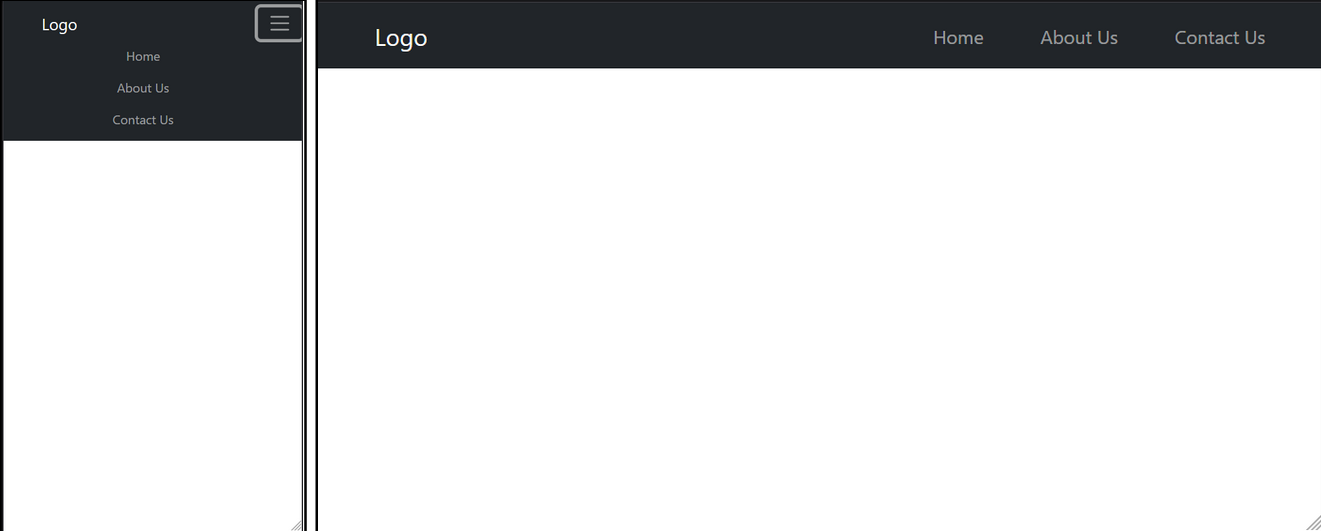
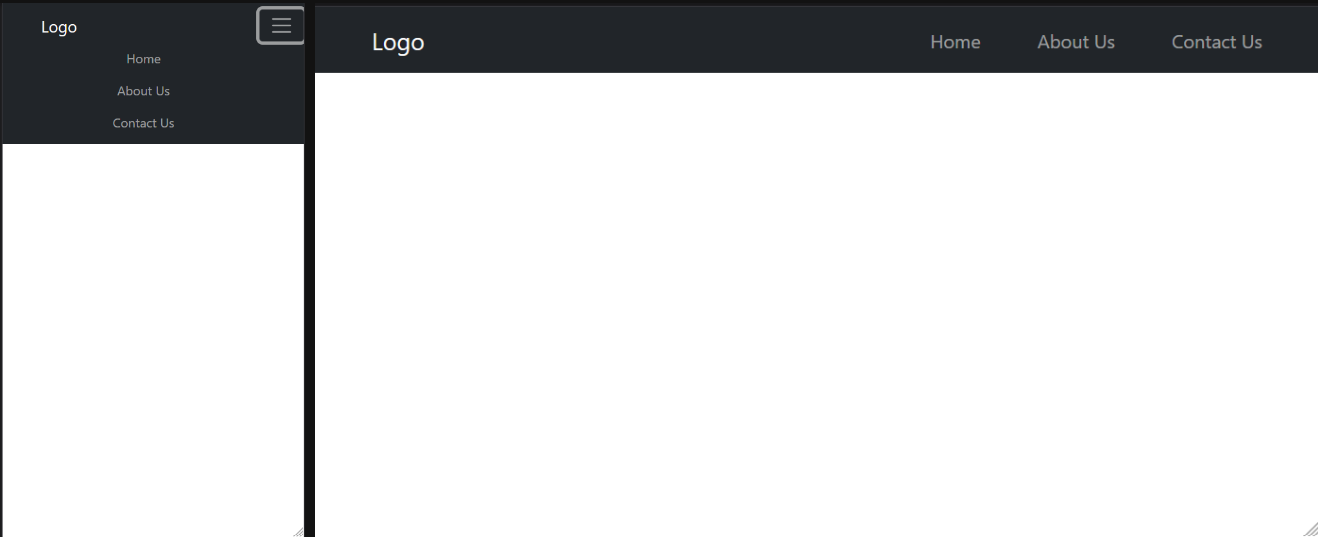
Images added for README

diff --git a/testing/testing.html b/testing/testing.html
@@ -1,0 +1,25 @@
+<!DOCTYPE html>
+<html lang="en">
+<head>
+    <meta charset="UTF-8">
+    <meta name="viewport" content="width=device-width, initial-scale=1.0">
+    <link href="https://cdn.jsdelivr.net/npm/bootstrap@5.0.2/dist/css/bootstrap.min.css" rel="stylesheet" integrity="sha384-EVSTQN3/azprG1Anm3QDgpJLIm9Nao0Yz1ztcQTwFspd3yD65VohhpuuCOmLASjC" crossorigin="anonymous">
+    <link rel="stylesheet" type="text/css" href="style.css">
+    <title>
+        Document
+    </title>
+</head>
+<body>
+    <section id="contact" class="contact-section">
+        <div class="row contact-row">
+            <div class="col-5 contact-col">
+                
+            </div>
+        </div>
+    </section>
+
+    <script src="script.js"></script>
+    <script src="https://cdn.jsdelivr.net/npm/bootstrap@5.0.2/dist/js/bootstrap.bundle.min.js" integrity="sha384-MrcW6ZMFYlzcLA8Nl+NtUVF0sA7MsXsP1UyJoMp4YLEuNSfAP+JcXn/tWtIaxVXM" crossorigin="anonymous"></script>
+
+</body>
+</html>

diff --git a/templates/create.html b/templates/create.html
@@ -23,7 +23,7 @@
                 Start designing your website
             </h1>
             <p class="py-2 create-desc">
-                Choose a category and choose an item below it. Press it and then press add. This will add it to your site. Repeat this until you have everything you want. When you are done, press the finish button. <br> Start with a navbar.
+                Choose a category and choose an item below it. Press it and then press add. This will add it to your site. Repeat this until you have everything you want. When you are done, press the finish button. <br> The different options are displayed in two ways. Mobile on the left, desktop on the right. <br> Start with a navbar.
             </p>
         </div>
     </div>

diff --git a/created-site/index.html b/created-site/index.html
@@ -16,7 +16,7 @@
             <span class="navbar-toggler-icon"></span>
         </button>
         <div class="collapse navbar-collapse" id="navbarNav">
-            <ul class="navbar-nav ms-auto mx-4"> <!-- Changed ml-auto here -->
+            <ul class="navbar-nav ms-auto mx-4">
                 <li class="nav-item m-auto px-3">
                     <a class="nav-link" href="#">Home</a>
                 </li>

diff --git a/static/assets/templates/navbars/3-items/code.html b/static/assets/templates/navbars/3-items/code.html
@@ -4,7 +4,7 @@
             <span class="navbar-toggler-icon"></span>
         </button>
         <div class="collapse navbar-collapse" id="navbarNav">
-            <ul class="navbar-nav ms-auto mx-4"> <!-- Changed ml-auto here -->
+            <ul class="navbar-nav ms-auto mx-4">
                 <li class="nav-item m-auto px-3">
                     <a class="nav-link" href="#">Home</a>
                 </li>

diff --git a/static/assets/templates/navbars/4-items/code.html b/static/assets/templates/navbars/4-items/code.html
@@ -4,7 +4,7 @@
             <span class="navbar-toggler-icon"></span>
         </button>
         <div class="collapse navbar-collapse" id="navbarNav">
-            <ul class="navbar-nav ms-auto mx-4"> <!-- Changed ml-auto here -->
+            <ul class="navbar-nav ms-auto mx-4">
                 <li class="nav-item m-auto px-3">
                     <a class="nav-link" href="#">Home</a>
                 </li>

diff --git a/static/assets/templates/navbars/only-logo/code.html b/static/assets/templates/navbars/only-logo/code.html
@@ -1,0 +1,5 @@
+    <nav class="navbar navbar-expand-lg navbar-dark bg-dark">
+        <a class="navbar-brand m-auto" href="#">
+            Logo
+        </a>
+    </nav>

diff --git a/testing/style.css b/testing/style.css
@@ -1,0 +1,6 @@
+.contact-section {
+    display: flex;
+    justify-content: center;
+    align-items: center;
+    height: 90vh;
+}
